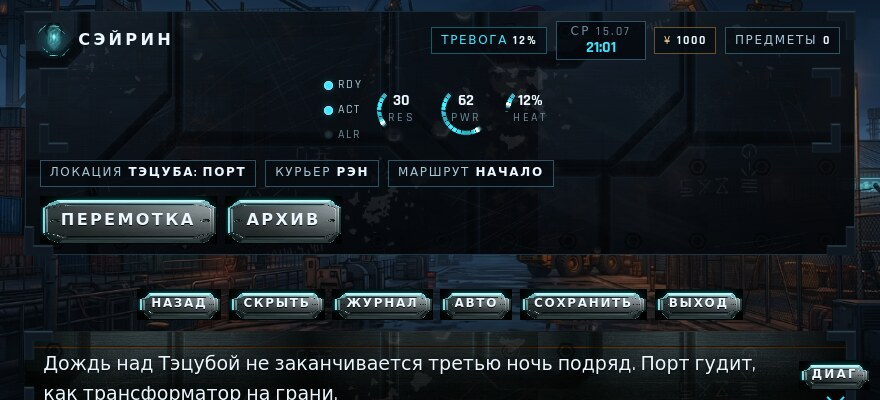
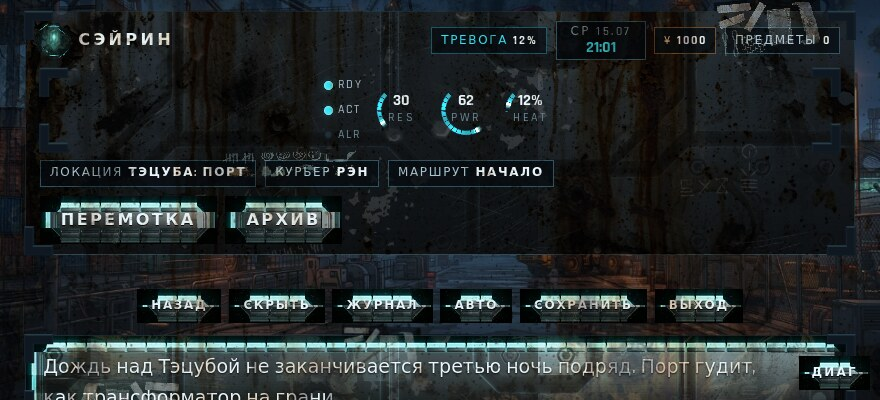
three-ui: native-scale nine-patch key surfaces + full-trash art pass
- keys/console drop border-image: --nine composes the plate from nine
  patches cut at UI scale (corners placed, edges repeat-x/y, face the
  single inner stretch) - nothing scales, nothing deforms at any size
- trash pass: rust multiply on panels + stage grime veil, screen-blended
  tape/scrap clusters, stencil decals, heavier wear, mismatched plate
  tints per nth-child
- prompts saved (ui-trash-01.md), plates doc gains the cut recipe (09)
- shots: pre-invariant webp screenshots removed (JPEG-only house rule),
  12_keys_9slice_compare.jpg refreshed with the native-scale stack
- harness ALL CLEAN; game/ untouched (suite 65 pass)

diff --git a/design/preview/three-ui.css b/design/preview/three-ui.css
@@ -56,8 +56,25 @@
     --key-b:   clamp(9px, 0.8vh + 0.4vw, 18px);   /* uniform 9-slice border */
 
     --plate:   url("assets/ui/ui_plate_armour.webp");
+    --rust:    url("assets/ui/ui_trash_rust.webp");
+    --tape:    url("assets/ui/ui_trash_tape.webp");
+    --decals:  url("assets/ui/ui_trash_decals.webp");
     --wear:    url("assets/ui/ui_plate_wear.webp");
-    --key:     url("assets/ui/ui_button_plate.webp");
+    /* The plate cut into nine patches at UI scale (assets/ui/k_*.webp, cut
+       from a 25% downscale of the trimmed plate). Corners are placed, edges
+       tile along their own axis, the face tiles: NOTHING is scaled, so
+       nothing deforms — the failure mode border-image kept falling into. */
+    --nine:
+        url("assets/ui/k_tl.webp") left top / 20px 16px no-repeat,
+        url("assets/ui/k_tr.webp") right top / 20px 16px no-repeat,
+        url("assets/ui/k_bl.webp") left bottom / 20px 16px no-repeat,
+        url("assets/ui/k_br.webp") right bottom / 20px 16px no-repeat,
+        url("assets/ui/k_t.webp") left top / 20px 16px repeat-x,
+        url("assets/ui/k_b.webp") left bottom / 20px 16px repeat-x,
+        url("assets/ui/k_l.webp") left top / 20px 130px repeat-y,
+        url("assets/ui/k_r.webp") right top / 20px 130px repeat-y,
+        url("assets/ui/k_face.webp") 20px 16px /
+            max(8px, calc(100% - 40px)) max(4px, calc(100% - 32px)) no-repeat;
     --console: url("assets/ui/ui_console_plate.webp");
     --bay:     url("assets/ui/ui_hud_instruments.webp");
 }
@@ -202,7 +219,10 @@ html:not(.no-webgl) .title-glow { display: none; }
 .panel {
     position: relative;
     isolation: isolate;
-    background: linear-gradient(180deg, rgba(10, 17, 24, 0.88), rgba(4, 7, 11, 0.94));
+    background:
+        var(--rust) center / cover no-repeat,
+        linear-gradient(180deg, rgba(10, 17, 24, 0.88), rgba(4, 7, 11, 0.94));
+    background-blend-mode: multiply, normal;
     border: 1px solid var(--line);
 }
 .panel::before {
@@ -222,7 +242,7 @@ html:not(.no-webgl) .title-glow { display: none; }
     z-index: -1;
     background: var(--wear) center / cover no-repeat;
     mix-blend-mode: screen;
-    opacity: 0.12;
+    opacity: 0.2;
     pointer-events: none;
 }
 
@@ -239,20 +259,11 @@ html:not(.no-webgl) .title-glow { display: none; }
     padding: clamp(0.5rem, 0.4rem + 0.5vw, 0.85rem) clamp(0.9rem, 0.7rem + 1vw, 1.9rem);
     border: 0;
     background: transparent;
-    /* 9-slice, corner/edge/middle split as the technique demands:
-         · slice 64 top/bottom, 78 left/right — measured so the plate's two
-           hex bolts fall INSIDE the side edge patches, leaving a plain
-           brushed face as the middle patch (a 64px side slice put the bolts
-           in the middle and tiling repeated them like a frieze);
-         · ONE uniform border-image-width (--key-b): corner patches scale
-           uniformly, edge patches stretch along their own axis only;
-         · middle stretches ON PURPOSE here: the face patch carries one
-           global sheen gradient (measured: dark run x110-255, light run
-           x256-529), so tiling it (border-image-repeat: round) repeats the
-           sheen as visible segments — verified by crop. Stretching a global
-           gradient is what 9-slice middles are for; at every shipped key
-           width it is a <=1.25x scale of the 475px patch, never a smear. */
-    border-image: var(--key) 64 78 64 78 fill / var(--key-b) / 0 stretch;
+    isolation: isolate;
+    min-height: 34px;   /* 2x16px corner rows must not collide */
+    /* nine-patch surface, native scale (see --nine): corners placed, edges
+       tiled along their own axis at native size; only the flat face fills
+       the inner rectangle (the one stretch a 9-slice is allowed). */
     font-size: var(--fs-hud);
     font-weight: 700;
     letter-spacing: 0.14em;
@@ -260,6 +271,24 @@ html:not(.no-webgl) .title-glow { display: none; }
     text-shadow: 0 1px 0 rgba(0, 0, 0, 0.85);
     cursor: pointer;
     transition: filter 120ms ease, transform 90ms ease;
+}
+.key::before {
+    content: "";
+    position: absolute;
+    inset: 0;
+    z-index: -1;
+    background: var(--nine);
+}
+/* every key carries its own scratches: trash is worn, not printed */
+.key::after {
+    content: "";
+    position: absolute;
+    inset: 0;
+    z-index: -1;
+    background: var(--wear) 30% 40% / cover no-repeat;
+    mix-blend-mode: screen;
+    opacity: 0.16;
+    pointer-events: none;
 }
 .key:hover { filter: brightness(1.28) drop-shadow(0 0 10px var(--accent-soft)); }
 .key:active { filter: brightness(0.9); transform: translateY(1px); }
@@ -418,10 +447,9 @@ html[data-alert-tier="alarm"] .badge--alert { animation: tuStrobe 0.9s steps(2, 
     width: min(var(--measure), 100%);
     justify-self: center;
     padding: clamp(0.7rem, 0.5rem + 1vw, 1.3rem) var(--pad-x, clamp(0.7rem, 0.5rem + 1vw, 1.6rem)) clamp(0.8rem, 0.6rem + 1vw, 1.4rem);
-    /* the console plate is 9-sliced too: the amber inlay lives in the top
-       edge patch (slice 48px -> 12px, so the line stays a crisp ~1.5px), the
-       body tiles instead of stretching 768px of art into a 150px band */
-    border-image: var(--console) 48 64 110 64 fill / 12px 18px 26px 18px / 0 round;
+    background:
+        linear-gradient(180deg, rgba(255, 180, 84, 0.75), rgba(255, 180, 84, 0) 3px),
+        var(--nine);
     background-color: rgba(4, 8, 12, 0.86);
     min-height: clamp(96px, 15vh, 180px);
     cursor: pointer;
@@ -430,9 +458,12 @@ html[data-alert-tier="alarm"] .badge--alert { animation: tuStrobe 0.9s steps(2, 
     content: "";
     position: absolute;
     inset: 0;
-    background: var(--wear) 30% 60% / cover no-repeat;
+    background:
+        var(--decals) 78% 62% / cover no-repeat,
+        var(--wear) 30% 60% / cover no-repeat;
+    background-blend-mode: screen;
     mix-blend-mode: screen;
-    opacity: 0.1;
+    opacity: 0.16;
     pointer-events: none;
 }
 .console-name {
@@ -577,6 +608,58 @@ input[type="range"]::-moz-range-thumb {
 .slot small { color: var(--ink-faint); font-size: var(--fs-xs); letter-spacing: 0.12em; }
 
 .sys-foot { display: flex; flex-wrap: wrap; gap: var(--gap); justify-content: space-between; }
+
+/* ------------------------------------------------------- THE TRASH PASS --
+   Scavenger repairs: scrap clusters (tape, welded patch, mesh, strap) screen-
+   blended onto corners, a rust-and-grime veil over the whole stage, and
+   plates that never quite match because they were never made together. */
+.tape {
+    position: absolute;
+    width: clamp(90px, 12vw, 160px);
+    aspect-ratio: 1408 / 768;
+    background: var(--tape) center / cover no-repeat;
+    mix-blend-mode: screen;
+    opacity: 0.5;
+    pointer-events: none;
+    z-index: 1;
+}
+.tape--a { top: -14px; right: 4%; transform: rotate(-5deg); opacity: 0.62; }
+.tape--b { bottom: -18px; left: 6%; transform: rotate(3deg) scaleX(-1); opacity: 0.55; }
+.tape--c { top: -10px; left: 38%; transform: rotate(2deg); opacity: 0.46; width: clamp(70px, 9vw, 120px); }
+
+.stage::after {
+    content: "";
+    position: absolute;
+    inset: 0;
+    z-index: 35;
+    pointer-events: none;
+    background:
+        var(--rust) center / cover no-repeat,
+        radial-gradient(120% 95% at 50% 42%, transparent 64%, rgba(24, 10, 3, 0.55) 100%);
+    mix-blend-mode: multiply;
+    opacity: 0.42;
+}
+
+.hud-strip { position: relative; }
+.hud-strip::before {
+    content: "";
+    position: absolute;
+    left: 22%;
+    top: -8px;
+    width: 150px;
+    height: 24px;
+    background: var(--decals) 30% 45% / auto 320% no-repeat;
+    mix-blend-mode: screen;
+    opacity: 0.4;
+    transform: rotate(-1.5deg);
+    pointer-events: none;
+}
+
+/* mismatched salvage: no two panels from the same batch */
+.sys-card:nth-child(2) { filter: hue-rotate(-10deg) brightness(1.06); }
+.sys-card:nth-child(3) { filter: hue-rotate(7deg) brightness(0.93); }
+.slot:nth-child(2) { filter: brightness(1.06) saturate(1.12); }
+.slot:nth-child(3) { filter: hue-rotate(-6deg) brightness(0.95); }
 
 /* ======================================================= DIAGNOSTICS ===== */
 .diag {

diff --git a/design/preview/three-ui-demo.html b/design/preview/three-ui-demo.html
@@ -55,6 +55,7 @@
             <img class="sprite" src="../../characters/miya/miya_normal.webp" alt="" />
 
             <header class="hud panel" data-3d-brackets>
+                <i class="tape tape--a" aria-hidden="true"></i>
                 <div class="hud-zone hud-zone--l">
                     <span class="hud-brand">
                         <span class="hud-emblem" data-3d="emblem"><img src="assets/ui/ui_emblem_resonance.webp" alt="" /></span>
@@ -101,6 +102,8 @@
 
             <div class="console panel" id="console" data-3d-brackets role="button" tabindex="0"
                  aria-label="Продолжить диалог (пробел)">
+                <i class="tape tape--b" aria-hidden="true"></i>
+                <i class="tape tape--c" aria-hidden="true"></i>
                 <span class="console-name" id="d-name">СЭЙРИН</span>
                 <p class="console-text" id="d-text">Дождь над Тэцубой не заканчивается третью ночь подряд.
                     Порт гудит, как трансформатор на грани.</p>
@@ -135,6 +138,7 @@
                     <p class="note">Аудиофайлы ещё не добавлены: ползунки уже готовы принять шины движка.</p>
                 </div>
                 <div class="sys-card panel" data-3d-brackets>
+                    <i class="tape tape--c" aria-hidden="true"></i>
                     <h3>Текст и сцена</h3>
                     <div class="row"><label for="v-spd">Скорость</label><input id="v-spd" type="range" min="1" max="10" value="6" /><output>6</output></div>
                     <div class="row"><label for="v-aut">Авто-переход</label><input id="v-aut" type="range" min="0" max="30" value="0" /><output>0</output></div>

diff --git a/design/THREE_UI.md b/design/THREE_UI.md
@@ -173,11 +173,67 @@ global gradient.
 
 ---
 
+## Session 13 — native-scale nine-patch keys + the full-trash pass
+
+Fourth rejection: the keys still read *stretched, deformed*, and the whole UI
+was called tasteless — with the directive to turn that into an advantage:
+**full trash**, more scrap and damage as intentional art direction. Two fixes
+landed together.
+
+### 1. border-image is gone; the plate is composed from nine native-scale patches
+
+Root cause measured on the old `border-image` key: the side edge patch carries
+520px of bolt/bevel detail that a 40px-tall key compresses ~26x vertically —
+that smear is exactly the "deformed" verdict. `border-image` cannot express
+"tile the edges at native size", so the key surface is now a stack of nine
+background layers cut from the plate at UI scale (`assets/ui/k_*.webp`, cut
+recipe in `assets/ui/prompts/ui-trash-01.md`):
+
+- corners 20x16 placed, never repeated, never scaled;
+- top/bottom edges 118x16 `repeat-x`, left/right edges 20x130 `repeat-y`;
+- the flat face fills the inner rectangle (`calc(100% - 40px)` x
+  `calc(100% - 32px)`) — the single stretch a 9-slice is allowed, and the only
+  way to keep the plate's global sheen continuous (tiling the face, tried
+  first, prints hard seams on wide keys; see `shots/12_keys_9slice_compare.jpg`).
+
+The stack lives in one custom property, `--nine`, shared by `.key::before` and
+`.console` (the console loses its border-image too and gains the amber inlay
+as a 3px top gradient). `.key` gets `min-height: 34px` so the two 16px corner
+rows can never collide on tiny keys, and `isolation: isolate` so the pseudo
+surface sits under the label without escaping the key's stacking context.
+
+### 2. The trash pass (scrap, rust, tape, mismatched salvage)
+
+- `ui_trash_rust.webp` (rust on white) multiply-blends into every `.panel`
+  background and into a `.stage::after` grime veil (radial keeps the centre
+  clear so sprites stay clean, rust collects at the edges);
+- `ui_trash_tape.webp` (tape/welded patch/mesh/strap on black) screen-blends as
+  `.tape` scrap clusters pinned to hud, console and one sys-card corner;
+- `ui_trash_decals.webp` (stencil chevrons/marks on black) screen-blends over
+  the console and as a stencil smear above the HUD strip;
+- wear overlay opacity 0.12 -> 0.2 on panels, plus a per-key scratch layer;
+- mismatched salvage: `:nth-child` hue/brightness offsets so no two sys-cards
+  or slots look like the same batch.
+
+Prompts for the three sheets: `assets/ui/prompts/ui-trash-01.md`.
+
+### Verification
+
+- Harness `tools/shot-three-ui.mjs`: **ALL CLEAN** (12 shots, desktop/phone/
+  land + alarm/settings/save/nowebgl).
+- Key crop stack at 360/620/90px: `shots/12_keys_9slice_compare.jpg` — one
+  continuous plate at every size, teeth tiling natively, corners intact.
+- `game/` untouched; its suite still 65 pass / 0 fail.
+- House rule: four pre-invariant `.webp` screenshots removed from `shots/`
+  (JPEG-only); every generation prompt saved under `assets/ui/prompts/`.
+
+---
+
 ## Screenshot index (`shots/11_*`, JPEG per house rule)
 
 | File | Shows |
 |---|---|
-| `11_three_ui_title_{desktop,phone,phone_land}` | key visual + wordmark, blended emblem with 3D holo-rings, plasma reactor over the mecha, 9-sliced keys |
+| `11_three_ui_title_{desktop,phone,phone_land}` | key visual + wordmark, blended emblem with 3D holo-rings, plasma reactor over the mecha, native nine-patch keys |
 | `11_three_ui_game_{desktop,phone,phone_land}` | HUD with live 3D gauges/radar, sprite, console band, quick menu; phone drops the radar per ladder |
 | `11_three_ui_choices_desktop` | choice plates with rims |
 | `11_three_ui_alarm_{desktop,phone,phone_land}` | 65% escalation: every surface and shader goes red from one write |

diff --git a/design/preview/assets/ui/prompts/ui-trash-01.md b/design/preview/assets/ui/prompts/ui-trash-01.md
@@ -1,0 +1,54 @@
+# UI trash sheet — generation prompts (session 13)
+
+Scavenger-repair overlays for the "full trash" art direction. All three sheets are
+generated as opaque PNG/JPG (the image model has no alpha channel), so each is
+authored on a keyed background and composited with `mix-blend-mode` /
+`background-blend-mode` instead of transparency:
+
+- rust sheet → painted on **white** → composited with `multiply` (white = no-op);
+- tape/scrap sheet and stencil decals → painted on **black** → composited with
+  `screen` (black = no-op).
+
+Outputs (converted to webp q90, kept in `assets/ui/`, working PNGs in `_wip/`,
+not committed):
+
+| file | key | blend | use |
+| --- | --- | --- | --- |
+| `ui_trash_rust.webp` | white | multiply | `.panel` background layer, `.stage::after` grime veil |
+| `ui_trash_tape.webp` | black | screen | `.tape` scrap clusters (hud / console / sys-card) |
+| `ui_trash_decals.webp` | black | screen | `.console::after`, `.hud-strip::before` stencil marks |
+
+## 01 — rust and corrosion sheet (`ui_trash_rust`)
+
+> Seamless-ish texture sheet of rust and corrosion on a pure white background:
+> orange-brown iron oxide blooms, dark rust drip streaks running downward,
+> pitted speckle clusters and oxidized ring stains, scattered with generous
+> white empty space between them so the sheet can be multiply-blended over dark
+> UI panels. Flat frontal scan, no objects, no text, no borders, even lighting,
+> white background stays pure white.
+
+## 02 — tape and welded scrap cluster (`ui_trash_tape`)
+
+> Scavenger repair kit on a pure black background: strips of worn grey duct
+> tape at slight angles, a welded steel patch plate with rough bead seams, a
+> piece of wire mesh held by tape, a nylon strap with a buckle, torn paper
+> label remnants — arranged as one loose cluster in the centre with pure black
+> empty space around it. Flat frontal scan, desaturated cold tones with a few
+> warm rust accents, no text, no borders, black background stays pure black so
+> the cluster can be screen-blended onto dark surfaces.
+
+## 03 — stencil decals (`ui_trash_decals`)
+
+> Faded industrial stencil marks on a pure black background: pale cyan and
+> amber hazard chevrons, a stencilled radiation-like trefoil fragment, cargo
+> arrows, hand-painted stripe remnants and half-erased numbering stencils,
+> cracked and weathered paint, scattered loosely with pure black space between
+> marks. Flat frontal scan, no photorealistic objects, no readable words, black
+> background stays pure black so the marks can be screen-blended onto panels.
+
+## Cut note — nine-patch key surface
+
+`k_tl/k_tr/k_bl/k_br/k_t/k_b/k_l/k_r/k_face.webp` are NOT generated: they are an
+ImageMagick cut of `ui_button_plate.webp` downscaled to 25% (158×162), sliced
+into corners 20×16, edges 118×16 / 20×130 and face 118×130, so the CSS can
+compose the plate at native scale (see `--nine` in `three-ui.css`).

diff --git a/design/preview/assets/ui/prompts/ui-plates-01.md b/design/preview/assets/ui/prompts/ui-plates-01.md
@@ -149,3 +149,13 @@ misaligns the wells under the live 3D gauges — and `100% 100%` was exactly the
 stretch this prototype exists to avoid. The bay now wears the HUD panel's
 tiled armour; the instruments are the 3D layer. The plate stays in the set as
 the reference for what the 3D bay replaces.
+
+## 09 · nine-patch cut of `ui_button_plate.webp` (session 13)
+
+Not a generation — a cut. `ui_button_plate.webp` (trimmed 631x648) is downscaled
+to 25% (158x162) and sliced with ImageMagick into `k_tl/k_tr/k_bl/k_br` (20x16),
+`k_t/k_b` (118x16), `k_l/k_r` (20x130) and `k_face` (118x130). CSS composes them
+via `--nine` at exactly these pixel sizes: corners placed, edges repeated along
+their own axis, face stretched once into the inner rectangle. Nothing else in
+the plate pipeline scales, which is what finally killed the "stretched,
+deformed" verdict on keys.
